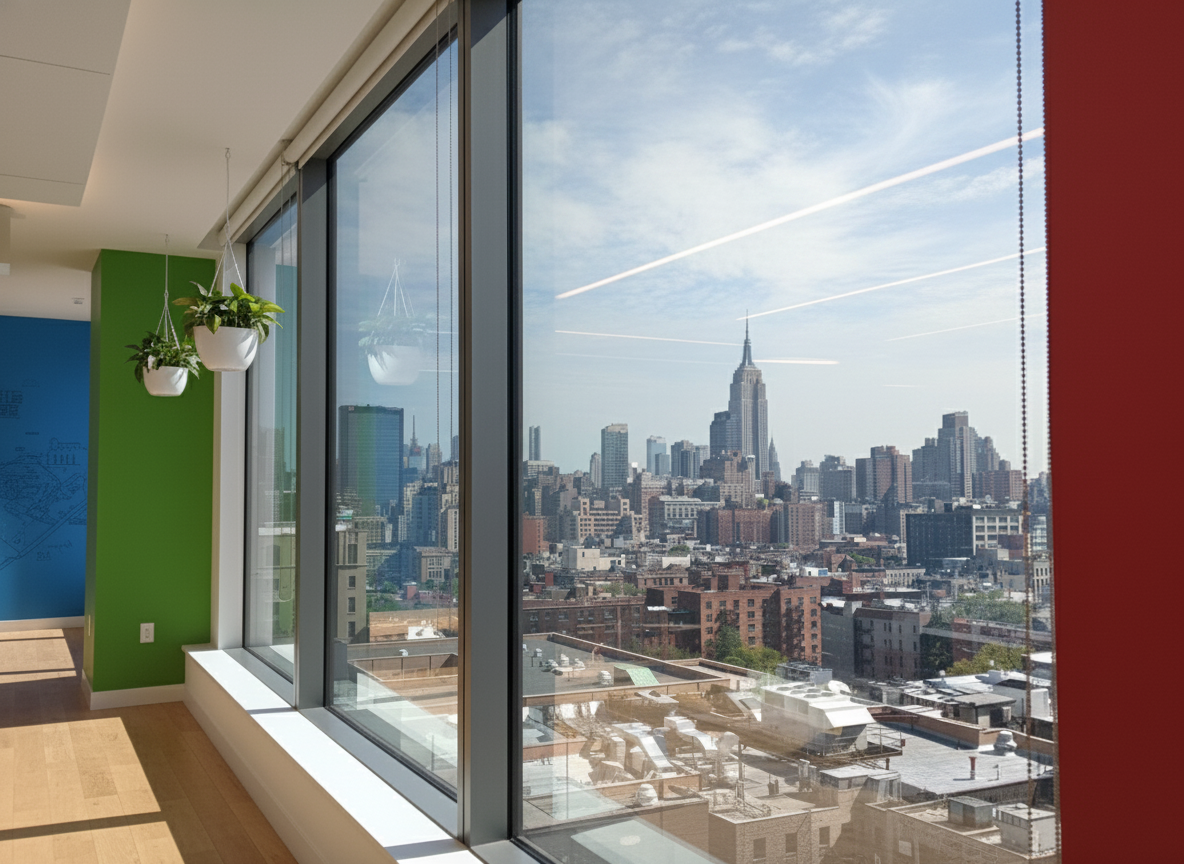
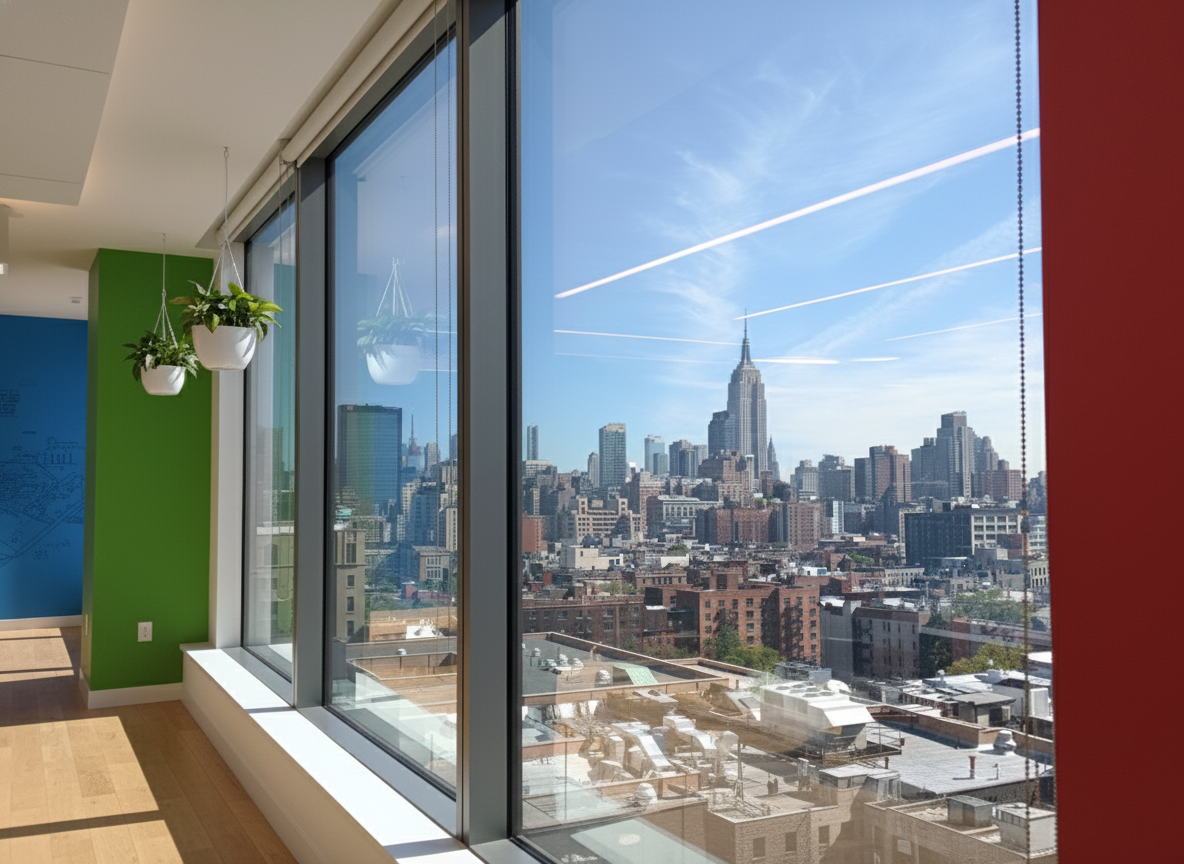
Update current virtual office image

diff --git a/index.html b/index.html
@@ -33,7 +33,7 @@
   </style>
 </head>
 <body>
-  <img src="./virtual-office-current.png?v=1777062581" alt="Current virtual office weather image">
-  <div class="stamp">Last updated: 2026-04-24 13:29 PDT</div>
+  <img src="./virtual-office-current.png?v=1777311778" alt="Current virtual office weather image">
+  <div class="stamp">Last updated: 2026-04-27 10:42 PDT</div>
 </body>
 </html>
